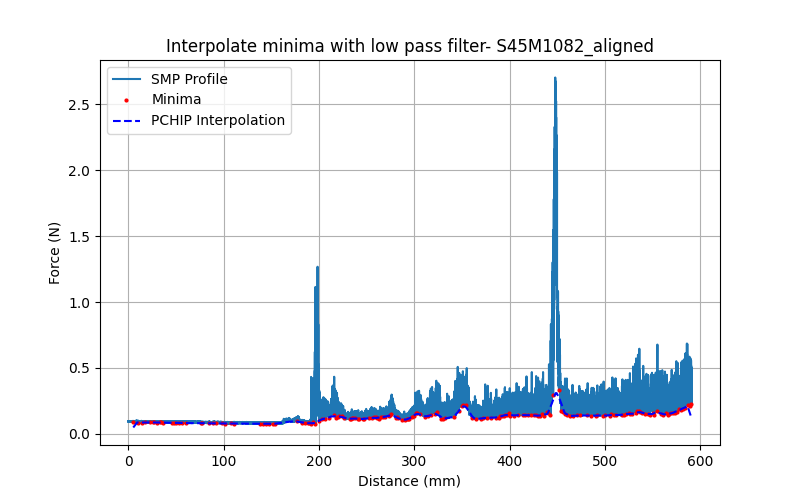
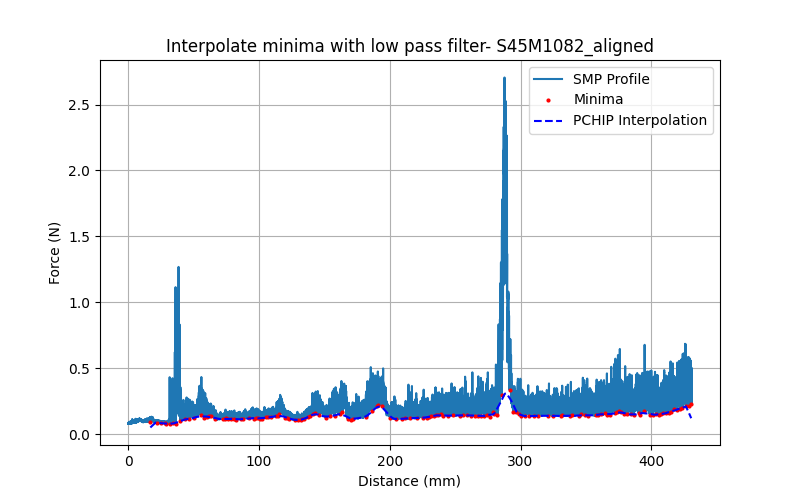
fixing function call in load_pnt for surface, changing main structure for preparing new interpolation

diff --git a/code_visualizations/plot_interpolate.py b/code_visualizations/plot_interpolate.py
@@ -1,12 +1,16 @@
 import matplotlib.pyplot as plt
 import numpy as np
 import pandas as pd
+import pickle
 
 from pathlib import Path
 from scipy.signal import argrelextrema
 from scipy.interpolate import pchip_interpolate
 
 from code_SMP.readSMP import load_all_smp_profiles
+from code_SMP.pairs import pairs
+from code_SMP.offset import align_profiles, get_offset
+from code_SMP.similarity import load_offset_cache, build_pairs_from_list
 
 # Interpolation of minima with low pass filter
 
@@ -56,6 +60,35 @@ def interpolate(name, df, plot= False, save=False, target_dir=Path("output/inter
     return df_drift
 
 if __name__ == "__main__":
-    smp_profiles = load_all_smp_profiles(pnt=False, aligned="pairs") 
-    for name, df in smp_profiles.items():
-        interpolate(name, df, plot=True, save=True)
+    smp_profiles = load_all_smp_profiles()
+
+    # pairs of profiles saved as lists in code_SMP/pairs.py
+    type = "pairs"
+
+    # build pairs for crosscorrelation 
+    paired_profiles = build_pairs_from_list(smp_profiles, pairs)
+    
+    data_by_day = {1: [], 2: []}
+    cache_path = "output/similarity_scores/offset_cache.pkl"
+    cache = load_offset_cache(cache_path)
+    print(f"\nSimilarity scores for manually defined {type} pairs:\n")
+    for df1, name1, df2, name2 in paired_profiles:
+        # Step 1: crosscorrelate pairs
+        #check if crosscorr is already in cache 
+        pair_key = tuple(sorted((name1, name2)))
+        if pair_key in cache:
+            lag = cache[pair_key]["lag"]
+        # if not: crosscorrelate 
+        else:
+            offset_mm, _, lag = get_offset(df1, df2, name1, name2, plot=True)
+        # save offset in cache
+        cache[pair_key] = {"lag": lag}
+        with open(cache_path, "wb") as f:
+            pickle.dump(cache, f)
+
+        # Step 2: Align profiles
+        df1, df2 = align_profiles(df1, df2, name1, name2, lag, plot=True)
+        
+        # Step 3: Interpolate minima
+        df1_drift = interpolate(name1, df1, plot=True, save=False)
+        df2_drift = interpolate(name2, df2, plot=True, save=False)

diff --git a/code_SMP/readSMP.py b/code_SMP/readSMP.py
@@ -107,13 +107,13 @@ def load_pnt(file, Trim_ground = True, Trim_surface = True, Trim = False):
         df = smp_profile.samples
         df = df[df["distance"] <= ground]
         if Trim_surface == True:
-            surface = detect_surface(df, profile_name)
+            surface, grad, threshold = detect_surface(df, profile_name)
             df = df[df["distance"] >= surface].copy()
             df["distance"] = df["distance"] - surface  # reset distance so it starts at 0
     else: 
         df = smp_profile.samples # converting profile into a panda dataframe
         if Trim_surface == True:
-            surface = detect_surface(df, profile_name)
+            surface, grad, threshold = detect_surface(df, profile_name)
             df = df[df["distance"] >= surface].copy()
             df["distance"] = df["distance"] - surface  # reset distance so it starts at 0
     return df, profile_name, spatial_resolution
@@ -125,7 +125,7 @@ def load_csv(file, Trim_ground = True, Trim_surface = False):
         ground = detect_ground_csv(df)
         df = df[df["distance"] <= ground]
     if Trim_surface == True:
-        surface = detect_surface(df, profile_name)
+        surface, grad, threshold = detect_surface(df, profile_name)
         df = df[df["distance"] >= surface].copy()
         df["distance"] = df["distance"] - surface  # reset distance so it starts at 0
     return df, profile_name

diff --git a/additional_code/tryingsurfacedetection.py b/additional_code/tryingsurfacedetection.py
@@ -144,7 +144,7 @@ if surface_ini is not None:
         scores = compute_metrics(surface_ini_all, surface_old_all, surface_new_all, folder_path)
 
         # Change here for different parameter runs
-        info_text = (f"NEW METRICS: Run with moving linear regression and threshold finding with\n air_std over rolling window 10mm\n threshold = threshold = air_mean + 5 * air_std (same as snowmicropyn)n")
+        info_text = (f"NEW METRICS: Run with moving linear regression and threshold finding with\n air_std over rolling window 10mm\n threshold = threshold = 5 * air_std \n")
 
         # Append information to the run_summary.txt
         append_run_information(info_text, scores)

diff --git a/code_SMP/detect_surface.py b/code_SMP/detect_surface.py
@@ -77,7 +77,7 @@ def detect_surface(df, name):
             air_std = s # use smallest std of gradient 
             air_mean = m
 
-    threshold = air_mean + 5 * air_std #with air_mean + 5* air_std a very small bit worse - snowmicropyn method
+    threshold = 5 * air_std #with air_mean + 5* air_std a very small bit worse - snowmicropyn method
 
 
     surface = None 
